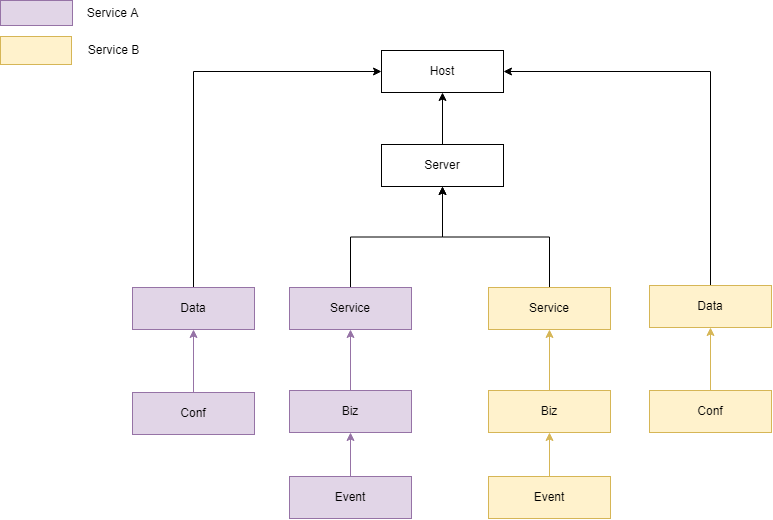
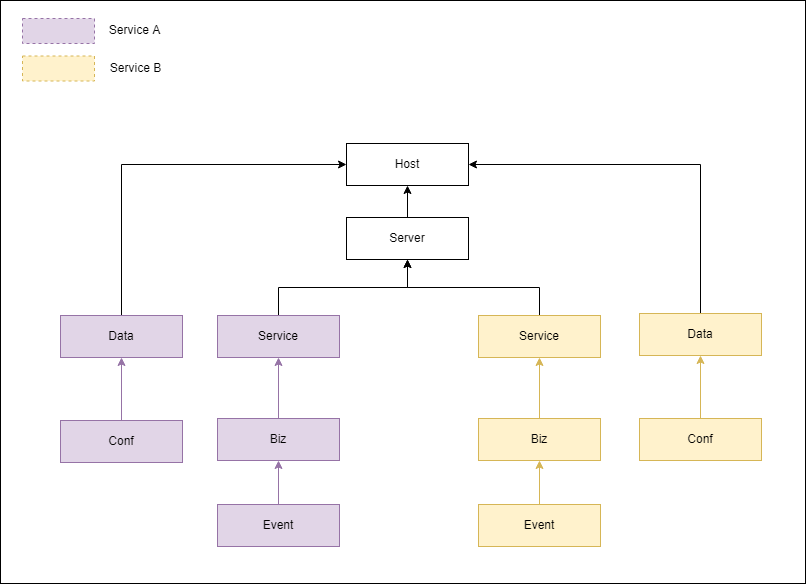
feat: docs

diff --git a/README.md b/README.md
@@ -68,9 +68,29 @@ Module design:
 
 ![Minimal](https://github.com/goxiaoy/go-saas-kit/blob/main/docs/minimal-module-design.drawio.png?raw=true)
 
+
+**Api:** Protobuf definition for public/internal service and models
+
+**Event:** Protobuf definition for distributed event bus
+
+**Biz:** Domain layer, definition for all entities and repository interface
+
+**Service:** Business logic, depends on biz repository interface
+
+**Data:** Data access layer, implement biz repository interface, init databases( mysql ,redis), init event bus (kafka ), expose migration function
+
+**Conf:** Protobuf configuration definition
+
+**Server:** Set up http and grpc server. register all services, set up middlewares. set up distributed  event handler, seeding behavior
+
+**Host:** Process entry point, read configuration, set up tracing, logging
+
+
+
 For Microservice:
 
 ![Minimal](https://github.com/goxiaoy/go-saas-kit/blob/main/docs/microservice.drawio.png?raw=true)
+
 
 
 For Monolithic: